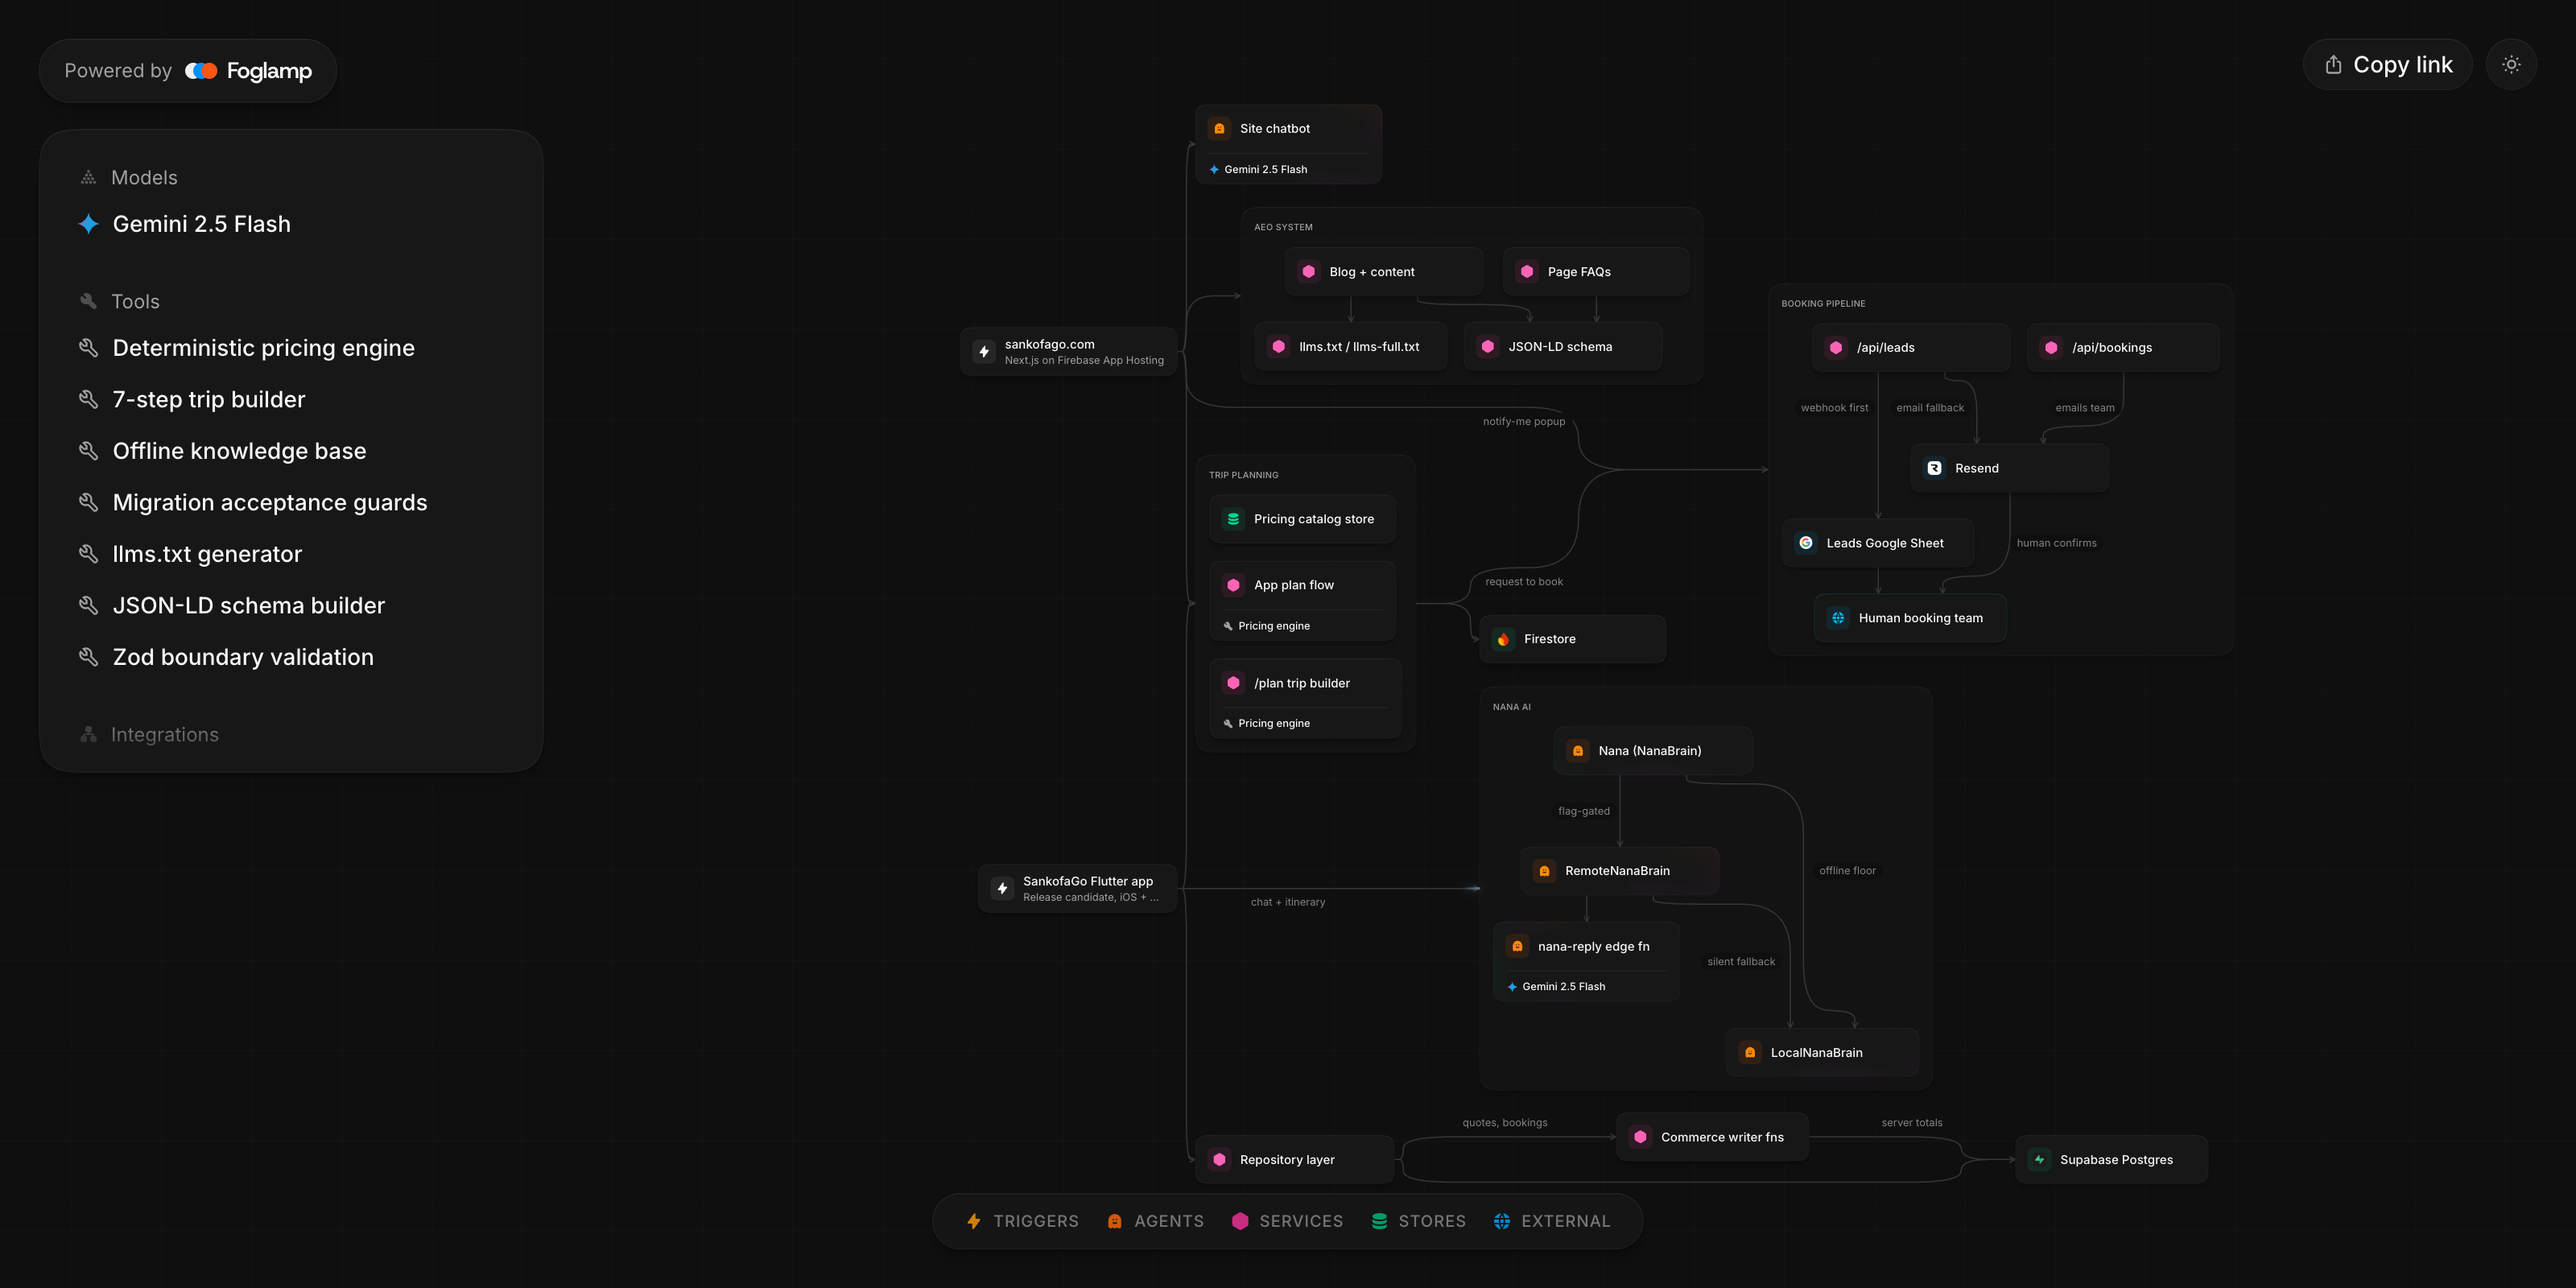
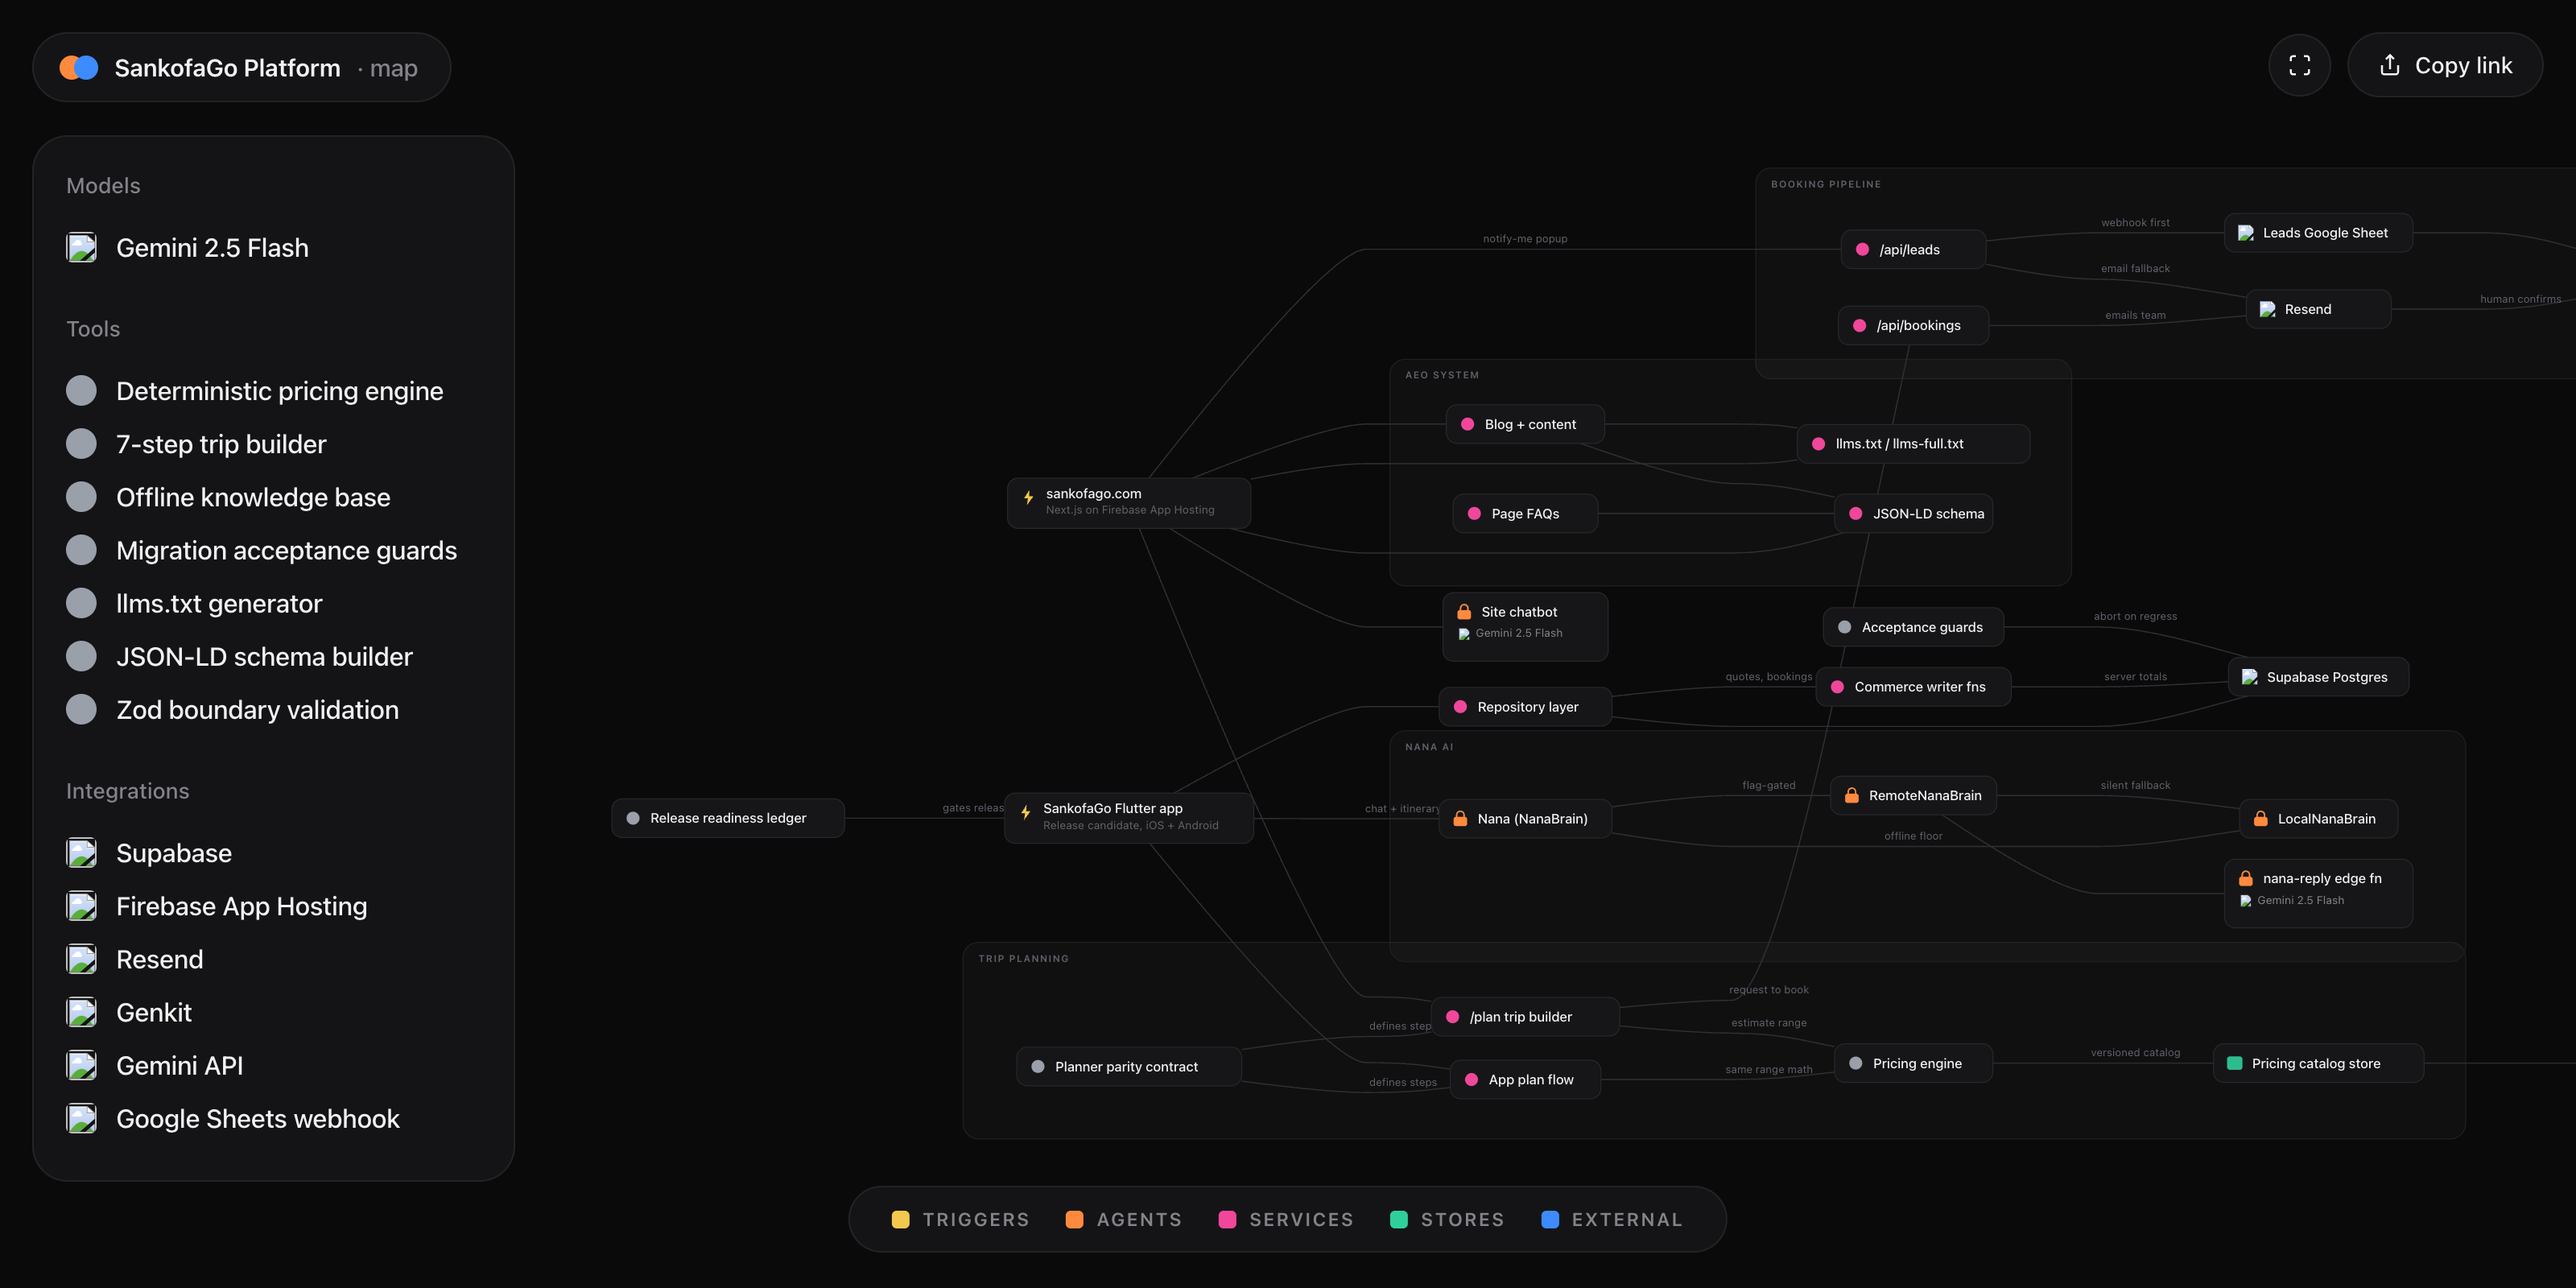
docs: self-hosted architecture map (own renderer, no third-party dependency)

diff --git a/README.md b/README.md
@@ -2,9 +2,9 @@
 
 Ghana heritage travel for the diaspora. An AI plans it. A real person books it.
 
-[![Architecture map](banner.png)](https://foglamp.dev/scan/sankofago-platform-ciqald)
+[![Architecture map](banner.png)](https://fred-in-tech.github.io/architecture-maps/sankofago-platform/)
 
-*Interactive architecture map: [foglamp scan](https://foglamp.dev/scan/sankofago-platform-ciqald)*
+*Interactive, pannable version: [open the architecture map](https://fred-in-tech.github.io/architecture-maps/sankofago-platform/)*
 
 ## What it is
 
